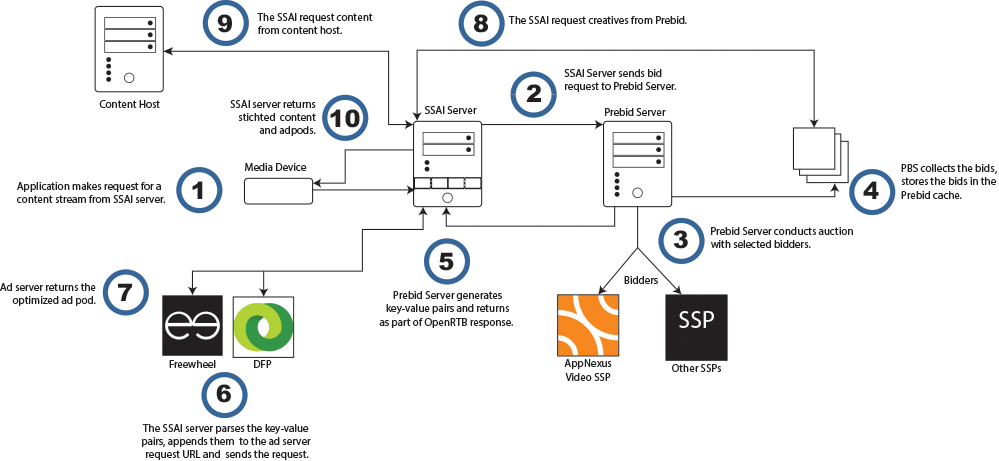
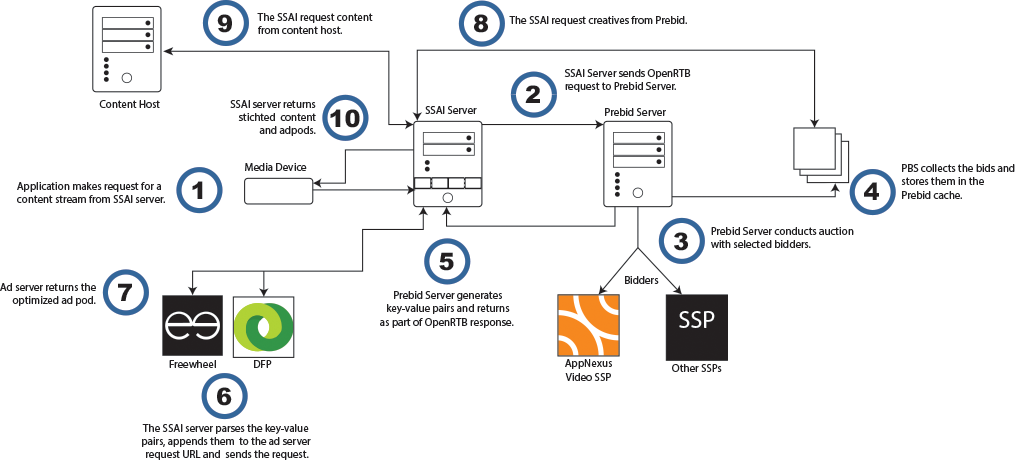
PR Edits

diff --git a/prebid-server/endpoints/openrtb2/video.md b/prebid-server/endpoints/openrtb2/video.md
@@ -6,17 +6,22 @@ title: Prebid Server | Endpoints | Video
 ---
 
 # Prebid Server Video Endpoint
-
+{: .no_toc }
 This document describes the behavior of the Prebid Server `video` endpoint in detail.
+
+* TOC
+{:toc}
 
 ## Video Endpoint
  `POST /openrtb2/video`
 
+
+
 ## Overview
 
-Prebid Server (PBS) supports competitve separation for ad pod display from primary ad servers such as Freewheel and DFP.  PBS, on receiving this endpoint, will pass default settings and `stored_request` parameters to one or more OpenRTB request, which will then be sent to the appropriate SSPs. 
+Prebid Server (PBS) supports competitve separation for ad pod display from primary ad servers such as Freewheel and DFP.  PBS, on receiving this endpoint, will pass default settings and `stored_request` parameters to one or more OpenRTB requests, which will then be sent to the appropriate SSPs. 
 
-The process is similar to [PrebidJS client side](/prebid-video/video-long-form.html) support for this feature.
+The process is similar to [Prebid.js client side](/prebid-video/video-long-form.html) support for this feature.
 
 ### Process
 
@@ -24,17 +29,19 @@ The process is similar to [PrebidJS client side](/prebid-video/video-long-form.h
 2. An SSAI Server sends an OpenRTB request to PBS.
 3. PBS sends a request for bids to selected demand partners by sending the OpenRTB request to them. 
 4. Demand partners return a bid response to PBS. If competitive seperation is enabled, PBS peforms [category translation](/dev-docs/modules/categoryTranslation.html) on each bid. Whether category translation is required or not, the bids are stored in prebid cache. 
-5. PBS generates key-value pairs that are comprised of price, industry and duration values, `hb_pb_industry_duration = 1200_399_30s`. These key-values are returned to the SSAI server as part of the OpenRTB response. 
+5. PBS generates key-value pairs that are comprised of price, industry and duration values. The key is `hb_pb_industry_duration` and each component of the key after the `hb` represents a related value.    
+The `-pb` represents the price bucket, `industry` indicates the industry code that is derived from the category translation and `duration` is the length of the bid response. A PBS generated key-value of  `hb_pb_industry_duration = 1200_399_30s` would indicate a price bucket of $12.00 (or a local currency) for industry id 399 with a duration of 30 seconds. These key-values are returned to the SSAI server as part of the OpenRTB response. 
 6. The SSAI server parses the returned key-values, appending them as a query string to the ad server request URL and submits the request. 
 7. The ad server returns the optimized pod. 
-8. The SSAI server requests the creatives from prebid cache. Once the creatives are received it stitches the content and ads together. 
-9. The stitched stream is returned to the application. 
+8. The SSAI server requests the creatives from prebid cache.  
+9. The SSAI server requests the content from the content host and stitches the creatives and content together. 
+10. The stitched stream is returned to the application. 
 
 <br>
 <img src="/assets/images/flowcharts/pb-lfv-serverside.png">
 <br>
 
- **Parameters**
+ **Parameters**<a name="parameters"></a>
 
   {: .table .table-bordered .table-striped }
 | Param | Scope | Type | Description |
@@ -142,31 +149,31 @@ To indicate which protocol or protocols you wish to use for content management, 
 ### Buyer UIDs
 The `user.buyeruids` is an optional, but recommended parameter. It is an object that contains all the SSP UserIDs to send to the SSPs endpoint. They are passed as key-value pairs: `{bidder_name:bidder_specific_userid}`. 
 
-In the following list are the supported (registered) bidder names.  
-- "beachfront"
-- "gumgum"
+These are the supported (registered) bidder names.  
+
 - "33across"
 - "adform"
-- "grid"
-- "rubicon"
+- "adkernelAdn"
 - "adtelligent"  
+- "appnexus" 
+- "audienceNetwork"  
+- "beachfront"
 - "brightroll"
 - "conversant"
+- "eplanning"
+- "grid"
+- "gumgum"
 - "ix"
 - "lifestreet"
+- "openx" 
+- "pubmatic"  
 - "pulsepoint"
 - "rhythmone"
-- "sonobi"  
-- "adkernelAdn"  
-- "audienceNetwork"  
-- "yieldmo"  
-- "openx"  
-- "pubmatic"  
+- "rubicon"
 - "somoaudience"  
-- "sovrn"  
-- "appnexus"  
-- "eplanning"
-
+- "sonobi" 
+- "sovrn"
+- "yieldmo" 
 
 ### GDPR
 
@@ -179,7 +186,7 @@ The `user` object has a `gdpr` subobject that contains data about the user's GDP
 | --- | --- | --- | --- |
 | user.gdpr | Optional | `Object` |  Container object describing user GDPR preferences. |
 | gdpr.consentrequired | Optional | `Boolean` |  Indicates whether GDPR is in effect. |
-| gdpr.consentstring | Optional | `String` |  String that contains the data structure developed by the GDPR Consent Working Group under the auspices of IAB Europes. |
+| gdpr.consentstring | Optional | `String` |  String that contains the data structure developed by the GDPR Consent Working Group under the auspices of IAB Europe. |
 
 ### Price Range
 
@@ -264,7 +271,7 @@ The `pricegranularity` subobject `range` describes the maximum price point for t
 
 ### Post Response
 
-The POST response contains an array of `adpod` objects which represents the `adpods` in the request. Each value of the `adpod ` object (`podid:1`, `podid:2`, etc) contain the key-value targeting for those bids and optionally any errors encountered. 
+The POST response contains an array of `adPod` objects which represents the `adPods` in the request. Each value of the `adPod ` object (`podid:1`, `podid:2`, etc) contain the key-value targeting for those bids and optionally any errors encountered. 
 
 ```javascript
 {
@@ -336,12 +343,12 @@ The SSAI should take the key-values from the response `adPods.[].targeting.[]${k
 | 3  | Config not defined. |  Add missing config into backend database. |
 | 4  | Bidder Timeout. |  Add missing config into backend database. |
 
-Further Reading: 
+## Further Reading: 
 
 [Prebid Server overview](/prebid-server/prebid-server-overview.html)  
 [OpenRTB auction endpoint ](/prebid-server/endpoints/openrtb2/auction.html)  
 [Category Translation module](/dev-docs/modules/categoryTranslation.html)  
-[Freewheel module](dev-docs/modules/freewheel.html)  
+[Freewheel module](/dev-docs/modules/freewheel.html)  
 [Ad Pod module](/dev-docs/modules/adpod.html)  
 
 
